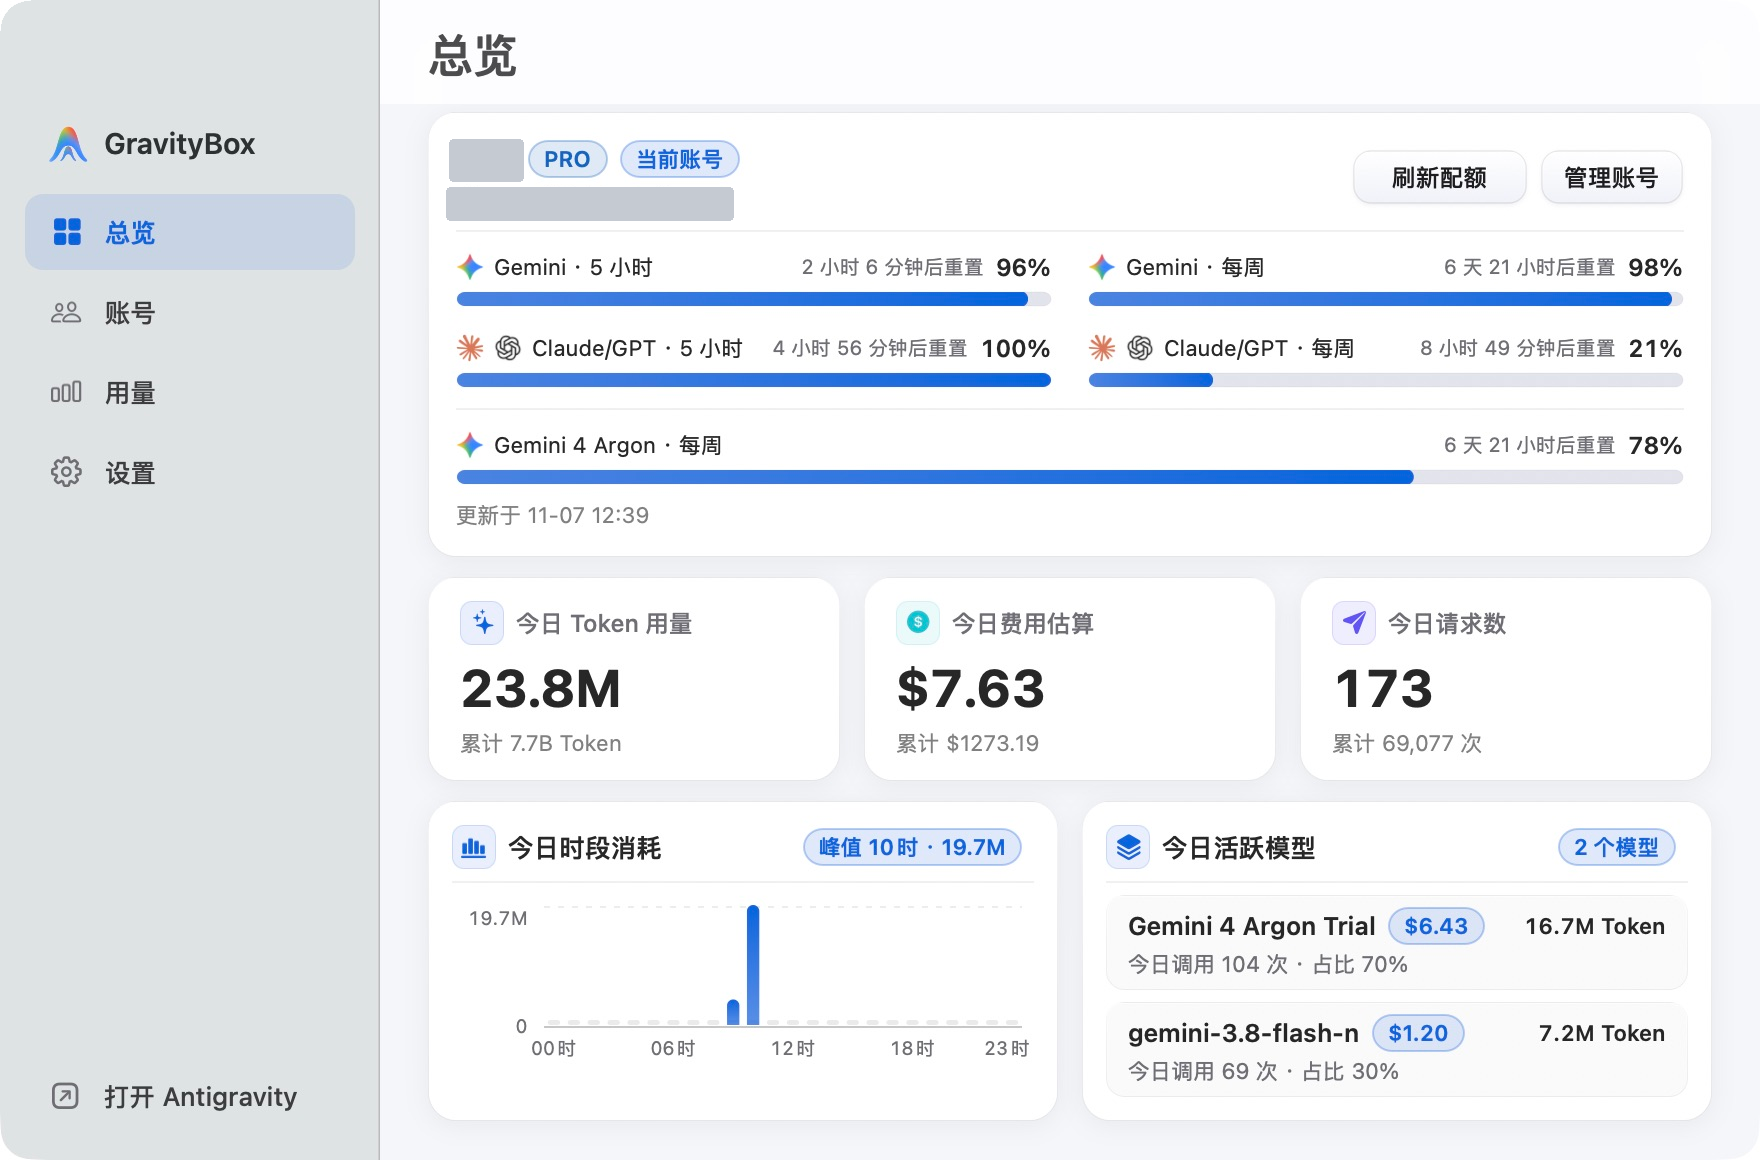
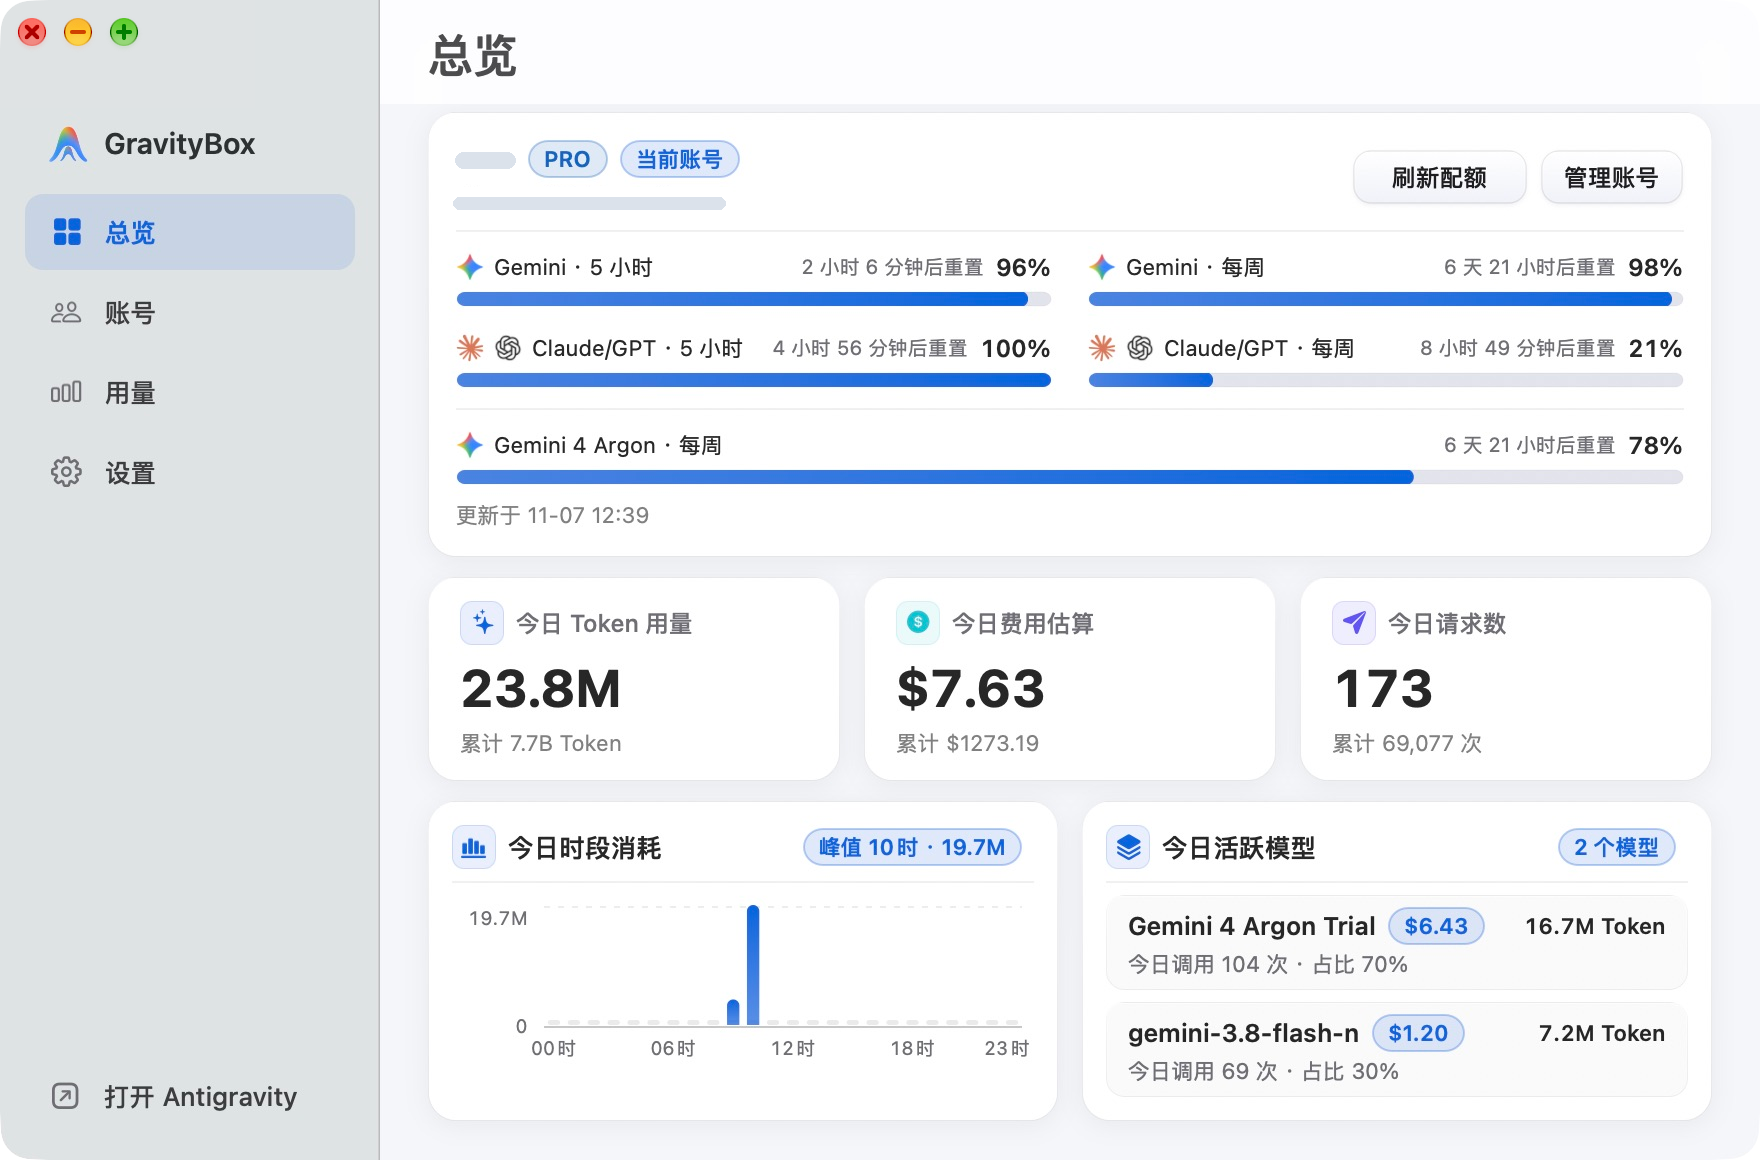
docs: polish native screenshots and README hero (#11)

Changed region(s): [[0.25, 0.0931, 0.4375, 0.2172], [0.0, 0.0, 0.0938, 0.0621]]

diff --git a/README.md b/README.md
@@ -1,5 +1,5 @@
 <div align="center">
-  <img src="assets/master-1024.png" width="116" height="116" alt="GravityBox Logo" />
+  <img src="assets/master-1024.png" width="80" height="80" alt="GravityBox Logo" />
 
   <h1>GravityBox</h1>
 
@@ -17,7 +17,6 @@
   </p>
 
   <p>
-    <a href="#界面预览">界面预览</a> ·
     <a href="#功能速览">功能速览</a> ·
     <a href="#安装与快速上手">安装与上手</a> ·
     <a href="#功能详解">功能详解</a> ·
@@ -27,33 +26,35 @@
   </p>
 </div>
 
----
-
-## 界面预览
-
 <p align="center">
-  <a href="assets/screenshots/overview.png"><img src="assets/screenshots/overview.png" width="960" alt="GravityBox 主窗口总览" /></a>
-  <br>
-  <sub>主窗口总览 · 账号配额、今日用量与模型消耗一屏掌握</sub>
+  <a href="assets/screenshots/hero.png"><img src="assets/screenshots/hero.png" width="1280" alt="GravityBox 原生 macOS 工作台与菜单栏面板：配额、Token 用量和费用估算一览" /></a>
 </p>
 
 <p align="center">
-  <a href="assets/screenshots/accounts.png"><img src="assets/screenshots/accounts.png" width="960" alt="GravityBox 多账号管理" /></a>
-  <br>
-  <sub>多账号管理 · 实时对比备用账号额度，一键安全切换与快照回滚</sub>
+  <strong>一屏掌握配额与用量，编码时也能随手查看。</strong><br>
+  <a href="https://github.com/Enzoo404/gravitybox/releases/latest">下载 macOS 版</a> ·
+  <a href="#安装与快速上手">快速上手</a> ·
+  <a href="#从源码构建">从源码构建</a>
 </p>
 
-<p align="center">
-  <a href="assets/screenshots/usage.png"><img src="assets/screenshots/usage.png" width="960" alt="GravityBox 用量统计与费用分析" /></a>
-  <br>
-  <sub>用量与费用 · 24 小时时段消耗趋势、模型费用占比与逐条明细检索</sub>
-</p>
+<details>
+<summary><strong>查看 4 张完整实机截图：总览 · 账号 · 用量 · 菜单栏</strong></summary>
 
-<p align="center">
-  <a href="assets/screenshots/menubar.png"><img src="assets/screenshots/menubar.png" width="380" alt="GravityBox 菜单栏快捷面板" /></a>
-  <br>
-  <sub>菜单栏快捷面板 · 点击状态栏图标即刻呼出，速览配额与用量趋势</sub>
-</p>
+<p><strong>总览</strong> · 剩余配额、重置倒计时与今日模型消耗。</p>
+<p align="center"><a href="assets/screenshots/overview.png"><img src="assets/screenshots/overview.png" width="1000" alt="总览页：五条模型配额、今日用量与活跃模型，身份信息已遮挡" /></a></p>
+
+<p><strong>账号</strong> · 对比当前与备用账号的配额，集中管理多个账号。</p>
+<p align="center"><a href="assets/screenshots/accounts.png"><img src="assets/screenshots/accounts.png" width="1000" alt="账号页：当前与备用账号的配额卡片，姓名和邮箱已遮挡" /></a></p>
+
+<p><strong>用量</strong> · Token 趋势、模型费用占比与缓存命中率。</p>
+<p align="center"><a href="assets/screenshots/usage.png"><img src="assets/screenshots/usage.png" width="1000" alt="用量页：Token 柱状图、API 等效费用环图与缓存命中率" /></a></p>
+
+<p><strong>菜单栏快捷面板</strong> · 不离开当前工作窗口，随手查看用量与趋势。</p>
+<p align="center"><a href="assets/screenshots/menubar.png"><img src="assets/screenshots/menubar.png" width="422" alt="菜单栏面板：用量摘要、今日趋势和模型用量" /></a></p>
+
+</details>
+
+<p align="center"><sub>GravityBox v1.0.0 · macOS 实机截图，身份信息已脱敏。首图由总览与菜单栏截图排版合成；费用为 API 等效估算。<a href="assets/screenshots/README.md">截图说明</a></sub></p>
 
 ---
 

diff --git a/assets/screenshots/README.md b/assets/screenshots/README.md
@@ -1,8 +1,21 @@
-# 界面截图 (Screenshots)
+# 实机截图
 
-| 文件 | 说明 | 原图尺寸 |
-| :--- | :--- | :--- |
-| `overview.png` | 主窗口总览：账号配额、用量摘要与活跃模型 | 1760 × 1160 |
-| `accounts.png` | 主窗口账号：多账号管理与配额对比 | 1760 × 1160 |
-| `usage.png` | 主窗口用量：时段趋势、费用占比与请求明细 | 1760 × 1160 |
-| `menubar.png` | 菜单栏面板：常驻状态栏快捷查看 | 844 × 1202 |
+2026-11-07 从已安装的 GravityBox v1.0.0 原生 macOS 界面截取。页面与菜单栏面板为不同时间的独立截图，显示各自采样时的实际数据。
+
+| 文件 | 内容 | 尺寸 |
+| --- | --- | --- |
+| `hero.png` | 总览与菜单栏的展示合成图 | 2560 × 1376 |
+| `overview.png` | 总览：配额、用量摘要与活跃模型 | 1760 × 1160 |
+| `accounts.png` | 账号管理与账号配额 | 1760 × 1160 |
+| `usage.png` | 用量趋势、费用估算与缓存命中率 | 1760 × 1160 |
+| `menubar.png` | 菜单栏快捷面板的用量标签页 | 844 × 1202 |
+
+处理说明：
+
+- 姓名和邮箱的原始像素先用不透明底色完全覆盖，再绘制浅色圆角遮挡条；不使用可逆模糊。
+- 主窗口左上角的系统共享提示与远程光标，以本次会话直接系统截图中的同尺寸、同位置真实标题栏区域替换，恢复真实红黄绿按钮；此处属于局部合成。
+- 主窗口圆角透明度取自同尺寸系统截图；菜单栏仅去除连通的外部白底。图片转为 sRGB，移除原图元数据。
+- `hero.png` 对两张脱敏截图缩放排版，添加背景与展示阴影。展示阴影不是系统原始窗口阴影。其余四张保留独立截图尺寸。
+- 应用内容区的统计数据、控件和布局未重绘或替换为示例数据；未使用 AI 图像生成。
+
+更新截图应标注对应版本，并完成逐图目视及 OCR 隐私检查。原图、OCR 输出、账号资料和本机工作路径不得提交。费用为 API 等效费用估算，不代表实际账单。
